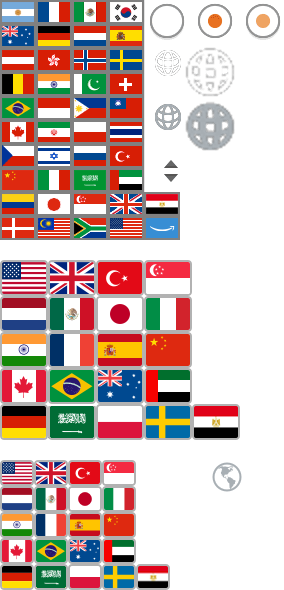
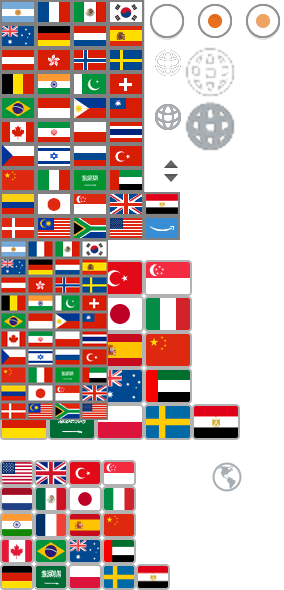
style:flag-sprites for navCurrency

Changed region(s): [[0.0, 0.3966, 0.3944, 0.7322]]

diff --git a/frontend/src/Features/User/CurrencyScreen/currencyScreen.css b/frontend/src/Features/User/CurrencyScreen/currencyScreen.css
@@ -51,33 +51,33 @@ select#currency {
   margin-right: 10px;
 }
 .sprite.flag {
-  height: 12px;
-  width: 18px;
-  margin: 0 3px;
-  background-image: url("../../../img/flags.png");
+  height: 14px;
+  width: 22px;
+  margin: -1rem 3px 0 3px;
+  background-image: url("../../../img/flags-globe.png");
 }
 .EUR {
-  background-position: -18px -12px;
+  background-position: -29px -260px;
 }
 .GBP {
-  background-position: -54px -96px;
+  background-position: -83px -386px;
 }
 .USD {
-  background-position: -54px -108px;
+  background-position: -83px -404px;
 }
 .CZK {
-  background-position: 0 -72px;
+  background-position: -3px -350px;
 }
 .PLN {
-  background-position: -18px -48px;
+  background-position: -29px -314px;
 }
 .CHF {
-  background-position: -54px -36px;
+  background-position: -83px -296px;
 }
 .sprite.flag.xl {
   height: 20px;
   width: 32px;
-  margin-right: 10px;
+  margin: 0 3px 0 1rem;
   background-image: url("../../../img/flags-globe.png");
   box-shadow: 0 0 5px #0008;
 }

diff --git a/frontend/src/Features/Nav/nav.css b/frontend/src/Features/Nav/nav.css
@@ -425,7 +425,7 @@ a .nav__brand {
 
 /* NAV-ITEM CURRENCY */
 .nav__line-2.sprite__wrapper {
-  margin: 2px 0px 1px;
+  margin: 6px 0px 1px;
 }
 .nav__line-2 .sprite.flag + i {
   margin-top: -4px;
@@ -446,7 +446,7 @@ a .nav__brand {
   left: 180px;
 }
 .nav__currency.dropdown:hover > .dropdown__menu.show:after {
-  left: 40px;
+  left: 44px;
   transition: all 0.4s ease-in-out;
 }
 .nav__currency .dropdown__menu .separator.ml-1 {
